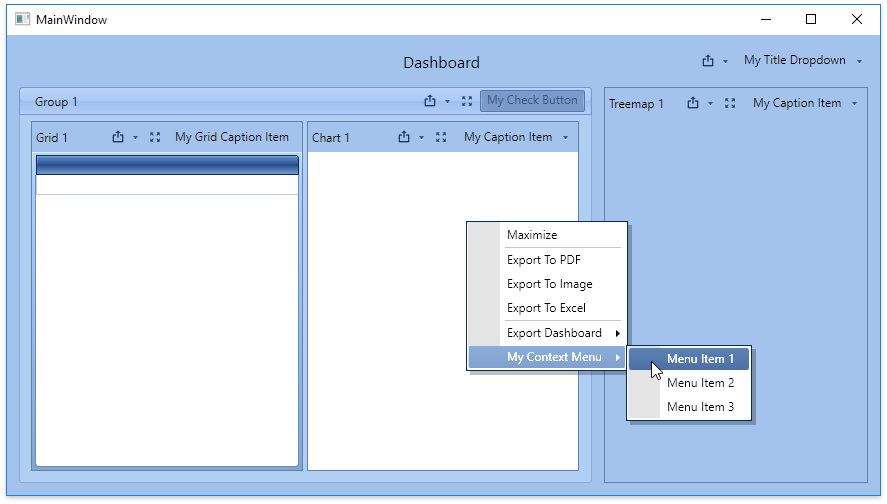
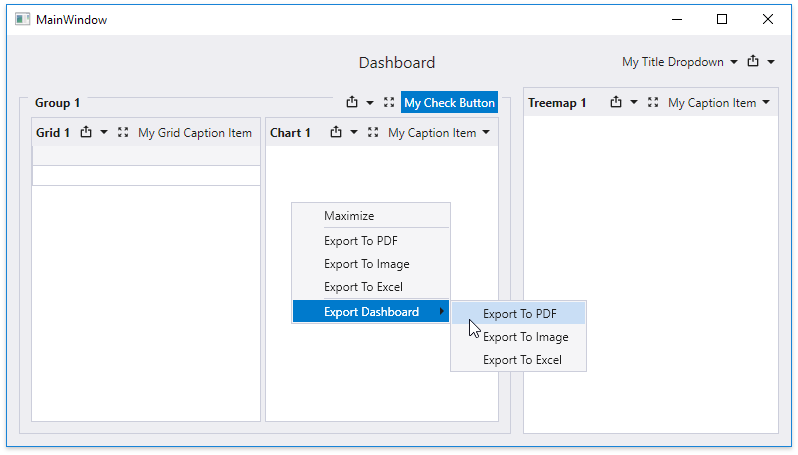
Index to insert

diff --git a/CS/WpfDashboardCustomCaptionMenu/MainWindow.xaml b/CS/WpfDashboardCustomCaptionMenu/MainWindow.xaml
@@ -8,7 +8,7 @@
     xmlns:dxdasht="http://schemas.devexpress.com/winfx/2008/xaml/dashboard/themekeys"
     xmlns:mc="http://schemas.openxmlformats.org/markup-compatibility/2006"
     xmlns:dx="http://schemas.devexpress.com/winfx/2008/xaml/core"
-    dx:ThemeManager.ThemeName="Office2016"
+    dx:ThemeManager.ThemeName="VS2017Light"
     Width="800"
     Height="450"
     mc:Ignorable="d"
@@ -23,7 +23,7 @@
             <dxdash:DashboardControl.TitleCustomizationsTemplate>
                 <DataTemplate>
                     <ItemsControl>
-                        <dxb:InsertAction ContainerName="{x:Static dxdasht:DefaultBarItemNames.DashboardTitle_Toolbar}">
+                        <dxb:InsertAction Index="0" ContainerName="{x:Static dxdasht:DefaultBarItemNames.DashboardTitle_Toolbar}">
                             <dxb:InsertAction.Element>
                                 <dxb:BarSubItem AllowGlyphTheming="True" Content="My Title Dropdown">
                                     <dxb:BarButtonItem Content="Item1" />

diff --git a/Readme.md b/Readme.md
@@ -14,4 +14,4 @@ In a dashboard item's custom style, the [DashboardLayoutItem.CaptionCustomizatio
 
 In a group item's custom style, set the  [DashboardGroupItem.CaptionCustomizationsTemplate](https://docs.devexpress.com/Dashboard/DevExpress.DashboardWpf.DashboardGroupItem.CaptionCustomizationsTemplate) and  [DashboardGroupItem.ContextMenuCustomizationsTemplate](https://docs.devexpress.com/Dashboard/DevExpress.DashboardWpf.DashboardGroupItem.ContextMenuCustomizationsTemplate) properties, respectively.
 
-The data template specified in a custom style implements the [InsertBarAction](https://docs.devexpress.com/WPF/DevExpress.Xpf.Bars.InsertBarAction) to add a button or a drop-down menu.
+The data template in a custom style uses the [InsertAction](https://docs.devexpress.com/WPF/DevExpress.Xpf.Bars.InsertAction) class to insert a button or a drop-down menu. The **InsertAction.Index** property specifies a position to insert.
